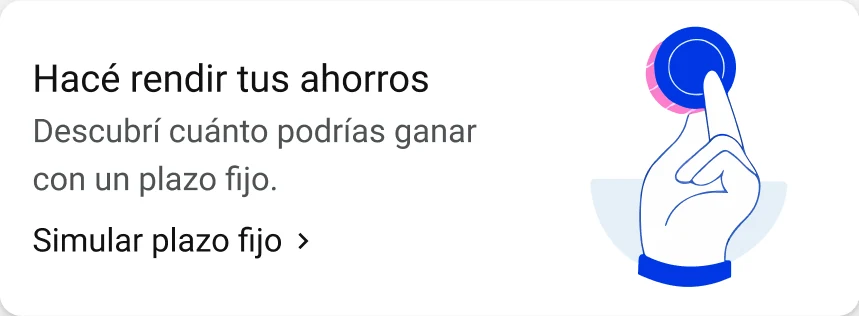
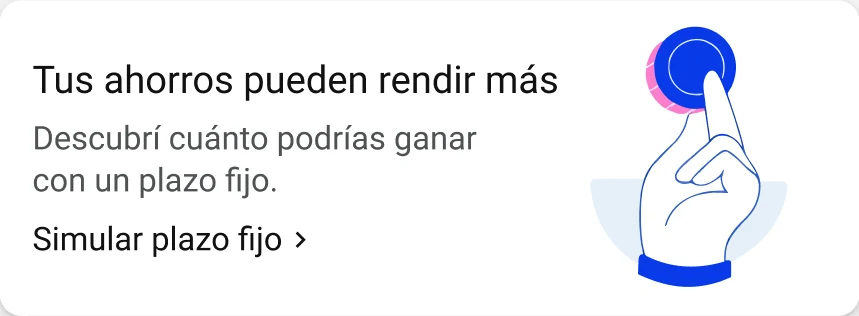
Para vos: título "Tus ahorros pueden rendir más"

diff --git a/src/screens/Inicio.jsx b/src/screens/Inicio.jsx
@@ -260,7 +260,7 @@ export function Inicio({ set, nav }) {
           <div className="home-section">
             <p className="home-title">Para vos</p>
             <Carrusel className="home-hscroll">
-              <button className="home-service is-link" onClick={simular} aria-label="Hacé rendir tus ahorros. Simular plazo fijo">
+              <button className="home-service is-link" onClick={simular} aria-label="Tus ahorros pueden rendir más. Simular plazo fijo">
                 <img draggable={false} className="home-img" src={`${IMG}s1.webp`} alt="" />
               </button>
               <img draggable={false} className="home-img home-service" src={`${IMG}s2.webp`} alt="¡Recargá todo desde la app! Ir a Recargar" />
